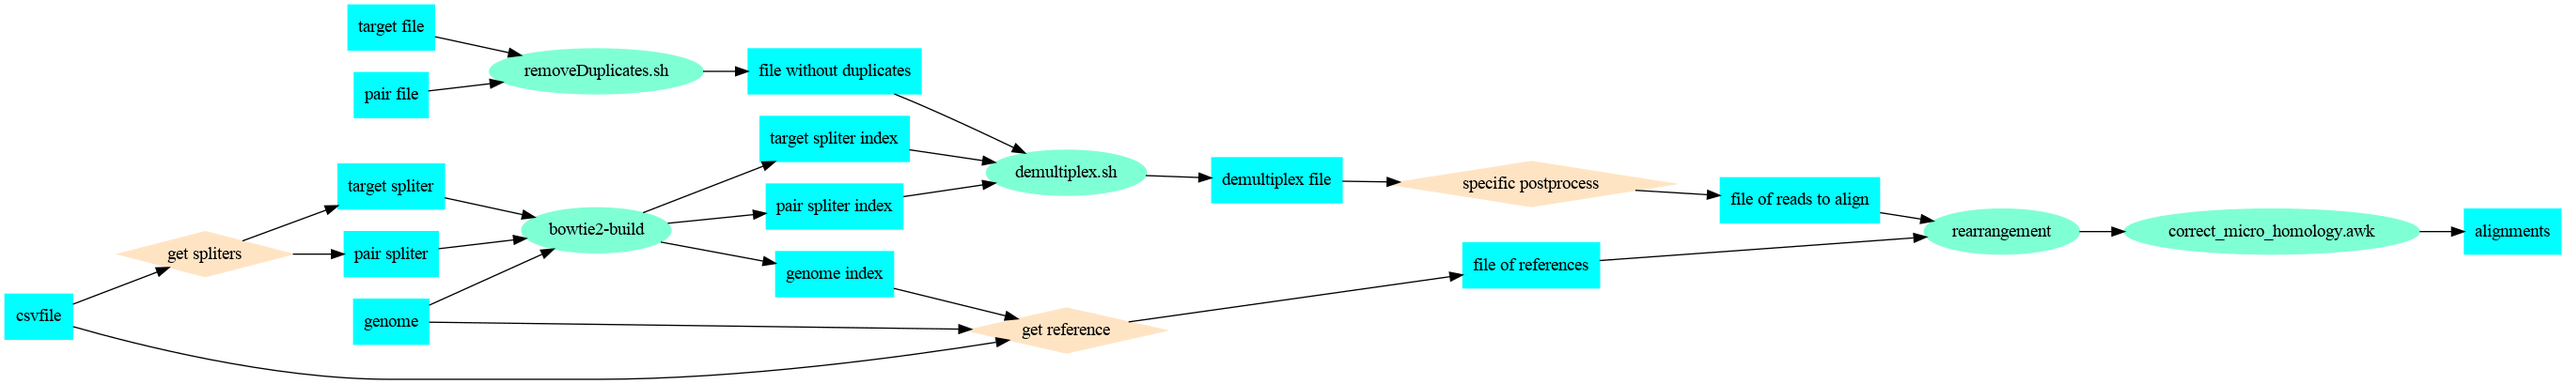
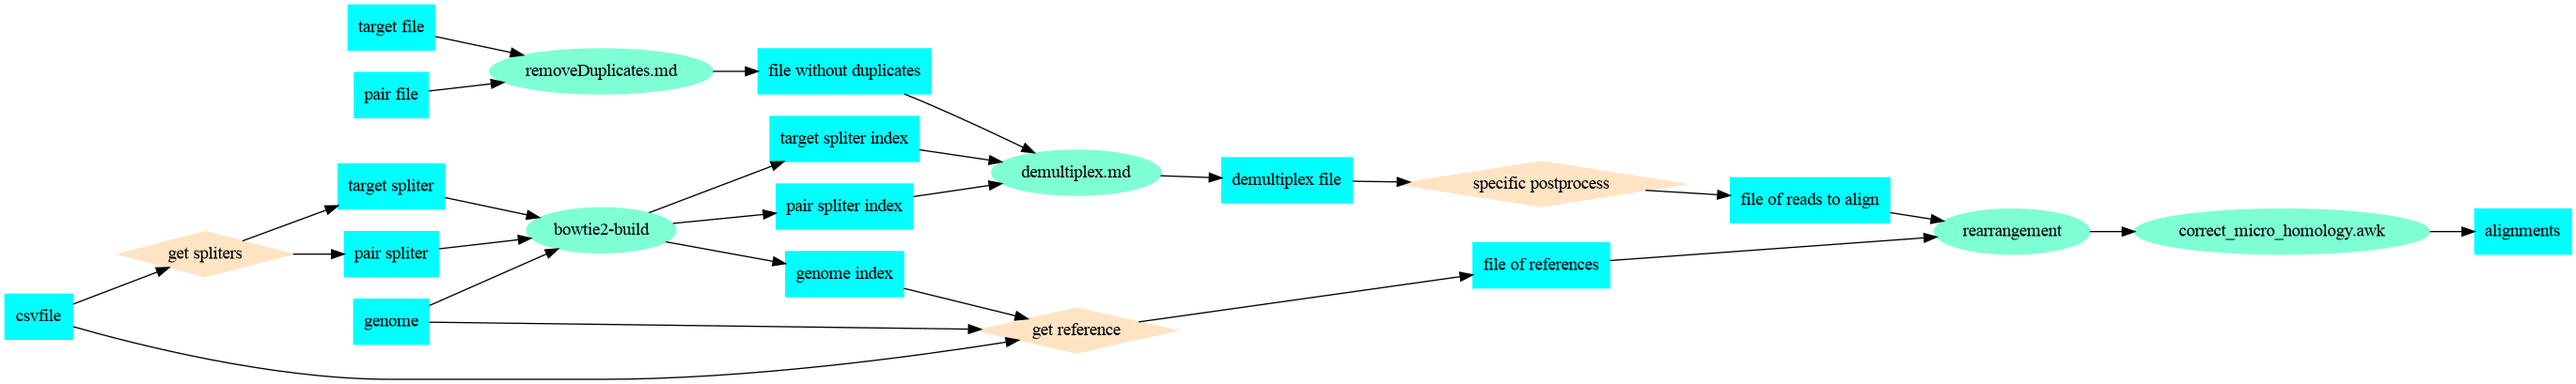
rename .sh to .md. doc demultiplex.md

diff --git a/docs/index.html b/docs/index.html
@@ -3,7 +3,3 @@ layout: home
 author_profile: true
 classes: wide
 ---
-
-<!-- <body>
-    <a href="/sx_lcy/rearr/html/index.html">Rearr</a>
-</body> -->

diff --git a/docker-images/flask/flask_project/celery_project/tasks.py b/docker-images/flask/flask_project/celery_project/tasks.py
@@ -24,7 +24,7 @@ def celeryUpload(uploadFiles):
 
 @celeryApp.task
 def celeryRemoveDuplicates(inputFiles, rmDupFile):
-    subprocess.run(f'''removeDuplicates.sh {" ".join(inputFiles)} >{rmDupFile} ''', shell=True, executable="/bin/bash")
+    subprocess.run(f'''removeDuplicates.md {" ".join(inputFiles)} >{rmDupFile} ''', shell=True, executable="/bin/bash")
     return [rmDupFile]
 
 @celeryApp.task
@@ -34,12 +34,12 @@ def celeryBuildSpliter(spliter, spliterIndex):
 
 @celeryApp.task
 def celeryDemultiplex(rmDupFile, targetSpliterIndex, pairSpliterIndex, minScoreTarget, minScorePair, demultiplexFile):
-    subprocess.run(f'''spliterTarget={targetSpliterIndex} spliterPair={pairSpliterIndex} minScoreTarget={minScoreTarget} minScorePair={minScorePair} demultiplex.sh {rmDupFile} >{demultiplexFile}''', shell=True, executable="/bin/bash")
+    subprocess.run(f'''spliterTarget={targetSpliterIndex} spliterPair={pairSpliterIndex} minScoreTarget={minScoreTarget} minScorePair={minScorePair} demultiplex.md {rmDupFile} >{demultiplexFile}''', shell=True, executable="/bin/bash")
     return [demultiplexFile]
 
 @celeryApp.task
 def celerySxPostProcess(demultiplexFile, minToMapShear, toAlignFile):
-    subprocess.run(f'''sxCutR2AdapterFilterCumulate.sh {demultiplexFile} {minToMapShear} >{toAlignFile}''', shell=True, executable="/bin/bash")
+    subprocess.run(f'''sxCutR2AdapterFilterCumulate.md {demultiplexFile} {minToMapShear} >{toAlignFile}''', shell=True, executable="/bin/bash")
     return [toAlignFile]
 
 @celeryApp.task
@@ -49,10 +49,10 @@ def celeryRearrange(toAlignFile, refFile, s0, s1, s2, u, v, ru, rv, qu, qv, PAM1
 
 @celeryApp.task
 def celeryGetReference(csvFile, genome, bowtie2index, ext1up, ext1down, ext2up, ext2down, refFile):
-    subprocess.run(f'''getSxCsvFileRef.sh {csvFile} {genome} {bowtie2index} {ext1up} {ext1down} {ext2up} {ext2down} >{refFile}''', shell=True, executable="/bin/bash")
+    subprocess.run(f'''getSxCsvFileRef.md {csvFile} {genome} {bowtie2index} {ext1up} {ext1down} {ext2up} {ext2down} >{refFile}''', shell=True, executable="/bin/bash")
     return [refFile]
 
 @celeryApp.task
 def celeryGetSpliters(csvFile, targetSpliter, pairSpliter):
-    subprocess.run(f'''sxExtractSpliter.sh {csvFile} >{targetSpliter} 3>{pairSpliter}''', shell=True, executable="/bin/bash")
+    subprocess.run(f'''sxExtractSpliter.md {csvFile} >{targetSpliter} 3>{pairSpliter}''', shell=True, executable="/bin/bash")
     return [targetSpliter, pairSpliter]

diff --git a/Rearrangement/headers/align.h b/Rearrangement/headers/align.h
@@ -68,7 +68,7 @@ void cross_align(
     const SCORETYPE v,
     const vsimd *grp,
     const vsimd *grm,
-    const vsimd **gamma,
+    vsimd **gamma,
     const SCORETYPE qu,
     const SCORETYPE qv,
     const SCORETYPE s0,

diff --git a/pre-post-process/demultiplex/demultiplex.md b/pre-post-process/demultiplex/demultiplex.md
@@ -1,0 +1,89 @@
+#!/bin/bash
+
+shopt -s expand_aliases
+
+alias ~~~=":<<'~~~bash'"
+
+:<<'~~~bash'
+
+# Usage
+```bash
+spliterIndices=index1,index2,... minScores=score1,score2,... demultiplex.md inputFile >demultiplexFile
+```
+
+# Introduction
+Each `spliterIndice` is `bowtie2` index of a `fasta` file containing possible alignment references (i.e. `spliter`s) of the corresponding (depends on the order) output `seq` of [`removeDuplicates.md`][`removeDuplicates.md`]. The `Nth` `spliter`s of `spliterIndice`s are usually different. However, they must have the same name. The name denotes the 0-based reference id (`refId`).
+
+`bowtie2` either aligns `seq` to one of the `spliter`s or failed to align. If all `seq`s in a line output of [`removeDuplicates.md`][`removeDuplicates.md`] successfully align to `spliter`s of the same `refId`, then `demultiplex.md` will print the following to `stdout`.
+```
+seq1<tab>seq2<tab>...<tab>count<tab>refId<tab>rs1<tab>re1<tab>qs1|qe1|rs2|re2|qs2|qe2|...
+```
+`seqN` and `count` are copied from `inputFile`. `rsN` and `reN` denotes the left-close-right-open 0-based range of the aligned part of the `Nth` reference (`spliter`) in the local alignment. `qsN` and `qeN` denotes that of the query (`seq`).
+
+## Alignment details
+`minScore`s are feed to `bowtie2` to filter alignments with low scores. The alignments are in local mode instead of end-to-end mode, and there is no reverse complement. The full alignment setting is
+```bash
+--norc --local -L 15 --ma 1 --mp 2,2 --rdg 3,1 --rfg 3,1 --score-min C,scoreN
+```
+
+[`removeDuplicates.md`]: /sx_lcy/remove-duplicates/
+
+# Source
+~~~bash
+mapSpliter()
+{
+    # Usage: mapSpliter minScore spliterIndex <reads
+    # Map reads to spliter by bowtie2
+    # Input: plain reads
+    # Output: sam file without header
+    minScore=$1
+    spliterIndex=$2
+    bowtie2 --quiet --mm --norc --local -L 15 --ma 1 --mp 2,2 --rdg 3,1 --rfg 3,1 --score-min C,${minScore} -r -x "${spliterIndex}" -U - 2>/dev/null | samtools view
+}
+
+filterSpilters()
+{
+    # Input: seq1|seq2|...|count|flag1|refId1|spliterStart1|spliterEnd1|seqStart1|seqEnd1|flag2|refId2|spliterStart2|spliterEnd2|seqStart2|seqEnd2|...
+    # Output: seq1|seq2|...|count|refId|spliterStart1|spliterEnd1|seqStart1|seqEnd1|spliterStart2|spliterEnd2|seqStart2|seqEnd2|...
+    # filter out rows with one of the following happens:
+    # 1. seqN failed to align spliterIndexN
+    # 2. refIdM != refIdN for some M and N
+    gawk -F "\t" -v OFS="\t" -v firstFlagPos=$((${#spliterIndexArray[@]}+2)) '
+        {
+            refId = $(firstFlagPos+1)
+            for (i = firstFlagPos; i <= NF; i += 6) {
+                if ($i != 0 || $(i+1) != refId) {
+                    next
+                }
+            }
+            for (i = 1; i < firstFlagPos; ++i) {
+                printf("%s\t", $i)
+            }
+            printf("%s\t", $(firstFlagPos+1))
+            for (i = firstFlagPos; i < NF; ++i) {
+                if ((i - firstFlagPos) % 6 <= 1) {
+                    continue
+                }
+                printf("%s\t", $i)
+            }
+            printf("%s\n", $NF)
+        }
+    '
+}
+
+inputFile=$1
+
+IFS=',' read -r -a spliterIndexArray <<< "$spliterIndices"
+IFS=',' read -r -a minScoreArray <<< "$minScores"
+maps=""
+for ii in ${!spliterIndexArray[@]}
+do
+    maps="${maps} <(cut -f$((ii+1)) ${inputFile} | mapSpliter ${minScoreArray[$ii]} ${spliterIndexArray[$ii]} | gawk -f getAlignPos.awk)"
+done
+
+eval paste "${inputFile}" $maps | filterSpilters
+~~~
+
+~~~bash
+alias ~~~=":" # This suppresses a warning and is not part of source.
+~~~

diff --git a/pre-post-process/removeDuplicates.md b/pre-post-process/removeDuplicates.md
@@ -1,0 +1,52 @@
+#!/bin/bash
+
+shopt -s expand_aliases
+
+alias ~~~=":<<'~~~bash'"
+
+:<<'~~~bash'
+
+# Usage
+```bash
+removeDuplicates.md fastq1(.gz|.zip) fastq2(.gz|.zip) fastq3(.gz|.zip) ... >rmDupFile
+```
+
+# Introduction
+The input of `removeDuplicates.md` are several `fastq` files. `removeDuplicates.md` accepts `fastq` files in `.gz` or `.zip` compressed form. The `Nth` sequence of each input `fastq` file forms the `Nth` record. Two records are deplicates if their component sequences from the same input `fastq` file are always the same. `removeDuplicates.md` remove and count duplicated records. The `stdout` are lines of the form
+```
+seq1<tab>seq2<tab>...<tab>count<newline>
+```
+
+## Why use several `fastq` files as input of `removeDuplicates.md`
+The paired-end next-generation sequencing (NGS) is quite common. Although mappable segment may be only in `R1` or `R2`, the other end still helps to determine the locus of the sequence. See [`demultiplex.md`][`demultiplex.md`].
+
+## Should I directly input raw `fastq` file, or remove `adapter`, `barcode` and so on before the input into `removeDuplicates.md`
+The `stdout` of `removeDuplicates.md` are aligned to the so-call `spliters` in [`demultiplex.md`][`demultiplex.md`] to determine the loci of lines. If you preserve `adapter`, `barcode` and so on in the input `fastq` files, it is suggested to provide them in `spliters` as well.
+
+[`demultiplex.md`]: /sx_lcy/demultiplex/
+
+# Source
+~~~bash
+fqlist=""
+for fq in "$@"
+do
+    if (file $fq | grep -q compressed)
+    then
+        fqlist="$fqlist <(zcat $fq)"
+    else
+        fqlist="$fqlist $fq"
+    fi
+done
+
+eval paste $fqlist | sed -n '2~4p' | sort | uniq -c | gawk '
+    {
+        for (i = 2; i <= NF; ++i)
+            printf("%s\t", $i)
+        print $1
+    }
+'
+~~~
+
+~~~bash
+alias ~~~=":" # This suppresses a warning and is not part of source.
+~~~

diff --git a/install.md b/install.md
@@ -1,5 +1,5 @@
 #!/bin/bash
-# Usage: sudo ./install.sh core sx
+# Usage: sudo ./install.md core sx
 
 for target in $@
 do
@@ -19,23 +19,23 @@ do
             cp pre-post-process/correct_micro_homology.awk /usr/share/awk/
             ;;&
         removeDup|core)
-            cp pre-post-process/removeDuplicates.sh /usr/local/bin/
+            cp pre-post-process/removeDuplicates.md /usr/local/bin/
             ;;&
         demultiplex|core)
-            cp pre-post-process/demultiplex/demultiplex.sh /usr/local/bin/
+            cp pre-post-process/demultiplex/demultiplex.md /usr/local/bin/
             cp pre-post-process/demultiplex/getAlignPos.awk /usr/share/awk/
             ;;&
         sx)
             # install getSxCsvFileRef
-            cp sx/getSxCsvFileRef/getSxCsvFileRef.sh /usr/local/bin/
+            cp sx/getSxCsvFileRef/getSxCsvFileRef.md /usr/local/bin/
             cp sx/getSxCsvFileRef/getSxCsvFileTarget.pl /usr/local/bin/
             cp sx/getSxCsvFileRef/getSxRefFile.pl /usr/local/bin/
             cp sx/getSxCsvFileRef/sxTargetSam2Bed.awk /usr/share/awk/
             # install cutR2Adapter
-            cp sx/sxCutR2AdapterFilterCumulate/sxCutR2AdapterFilterCumulate.sh /usr/local/bin/
+            cp sx/sxCutR2AdapterFilterCumulate/sxCutR2AdapterFilterCumulate.md /usr/local/bin/
             cp sx/sxCutR2AdapterFilterCumulate/sxCumulateToMapCutAdaptSpliter.awk /usr/share/awk/
             # install sxInderSpliter
-            cp sx/sxExtractSpliter.sh /usr/local/bin/
+            cp sx/sxExtractSpliter.md /usr/local/bin/
             ;;&
     esac
 done

diff --git a/README.md b/README.md
@@ -2,17 +2,17 @@
 https://github.com/ljw20180420/sx_lcy/releases
 
 # Install
-It is recommanded to use rearr in docker. If you want to install natively, cd into the project fold and execute `./install.sh` core sx.
+It is recommanded to use rearr in docker. If you want to install natively, cd into the project fold and execute `./install.md` core sx.
 
 # Install rootless docker
 First, install docker engine: https://docs.docker.com/engine/install
 Then install rootless docker: https://docs.docker.com/engine/security/rootless/#install
 
 # Usage
-See `rearrTest.sh`.
+See `rearrTest.md`.
 If you use docker, first login into docker.
 ```bash
-./loginWorker.sh
+./loginWorker.md
 ```
 Then just use as native.
 
@@ -34,7 +34,7 @@ HTTPS_PROXY=socks5://127.0.0.1:1080 docker compose build
 ```
 ```bash
 cd sx_lcy
-./compose.sh
+./compose.md
 ```
 
 # TODO

diff --git a/sx/sxCutR2AdapterFilterCumulate/sxCutR2AdapterFilterCumulate.md b/sx/sxCutR2AdapterFilterCumulate/sxCutR2AdapterFilterCumulate.md
@@ -1,6 +1,6 @@
 #!/bin/bash
 # Remove spliterToMap from 5' and adapter from 3' of toMap. The remain must contain at least minToMapShear bases. After shearing, adjacent lines may be duplicate again. Use sxCumulateToMapCutAdaptSpliter.awk to collapse these duplicates.
-# Usage: sxCutR2AdapterFilterCumulate.sh demultiplexFile minToMapShear >toMapFile
+# Usage: sxCutR2AdapterFilterCumulate.md demultiplexFile minToMapShear >toMapFile
 
 cutadaptPlain()
 {

diff --git a/loginWorker.md b/loginWorker.md
@@ -1,5 +1,5 @@
 #!/bin/bash
-# Usage: loginWorker.sh
+# Usage: loginWorker.md
 
 # select genome path
 if [ ! -e genome/genome.fa ] || [ ! -e genome/genome.1.bt2 ] || [ ! -e genome/genome.2.bt2 ] || [ ! -e genome/genome.3.bt2 ] || [ ! -e genome/genome.4.bt2 ] || [ ! -e genome/genome.rev.1.bt2 ] || [ ! -e genome/genome.rev.2.bt2 ]

diff --git a/buildDoc.md b/buildDoc.md
@@ -1,0 +1,10 @@
+#!/bin/bash
+
+sed '1i ---\ntitle: "Remove duplicates"\npermalink: /remove-duplicates/\ntoc: true\n---\n' pre-post-process/removeDuplicates.md > docs/_docs/removeDuplicates.md
+
+cd Rearrangement
+doxygen
+cp rearr.md ../docs/_docs/
+
+cd ../docs
+bundle exec jekyll serve

diff --git a/sx/sxExtractSpliter.md b/sx/sxExtractSpliter.md
@@ -1,6 +1,6 @@
 #!/bin/bash
 
-# Usage: sxExtractSpliter.sh csvfile >spliter1 3>spliter2
+# Usage: sxExtractSpliter.md csvfile >spliter1 3>spliter2
 # csvfile = adapter(20bp) + sgRNA(20bp) + scaffold(83/93bp) + target(44bp) + 3bp + RCbarcode(18bp) + RCprimer(21bp)
 
 getSxCsvFilePrimer()

diff --git a/rearrTest.md b/rearrTest.md
@@ -1,7 +1,7 @@
 #!/bin/bash
 
-# Usage: ./rearrTest.sh
-# To replace args (say makeTarget): makeTarget=test/rearr.noDup ./rearrTest.sh [test]
+# Usage: ./rearrTest.md
+# To replace args (say makeTarget): makeTarget=test/rearr.noDup ./rearrTest.md [test]
 
 if [[ $1 == "test" ]]
 then
